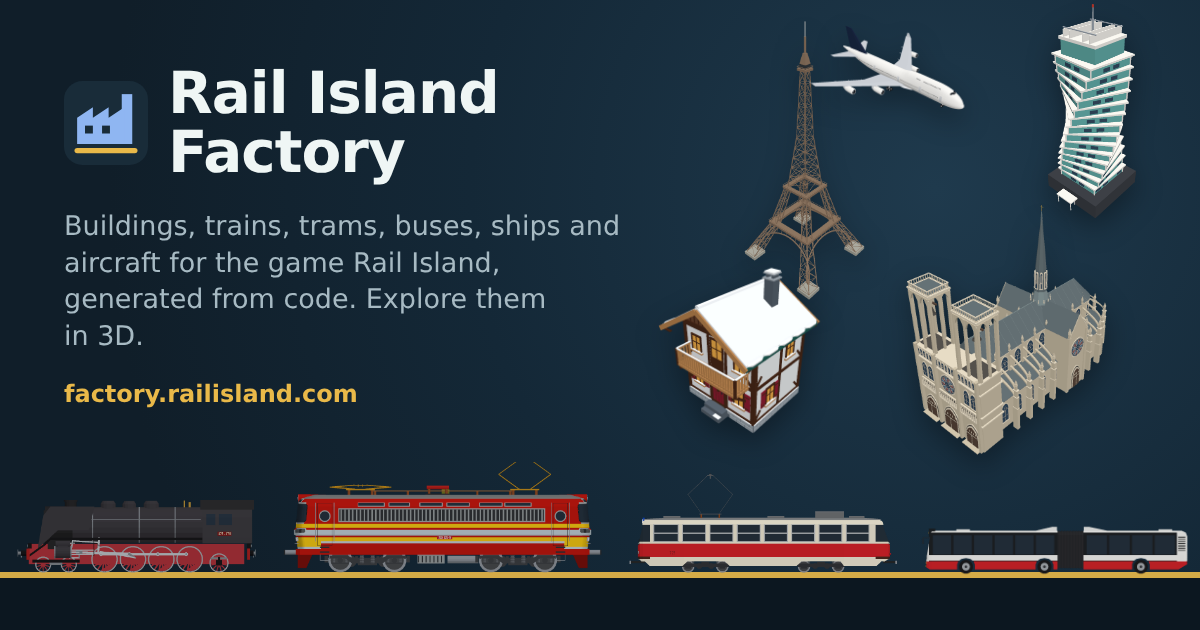
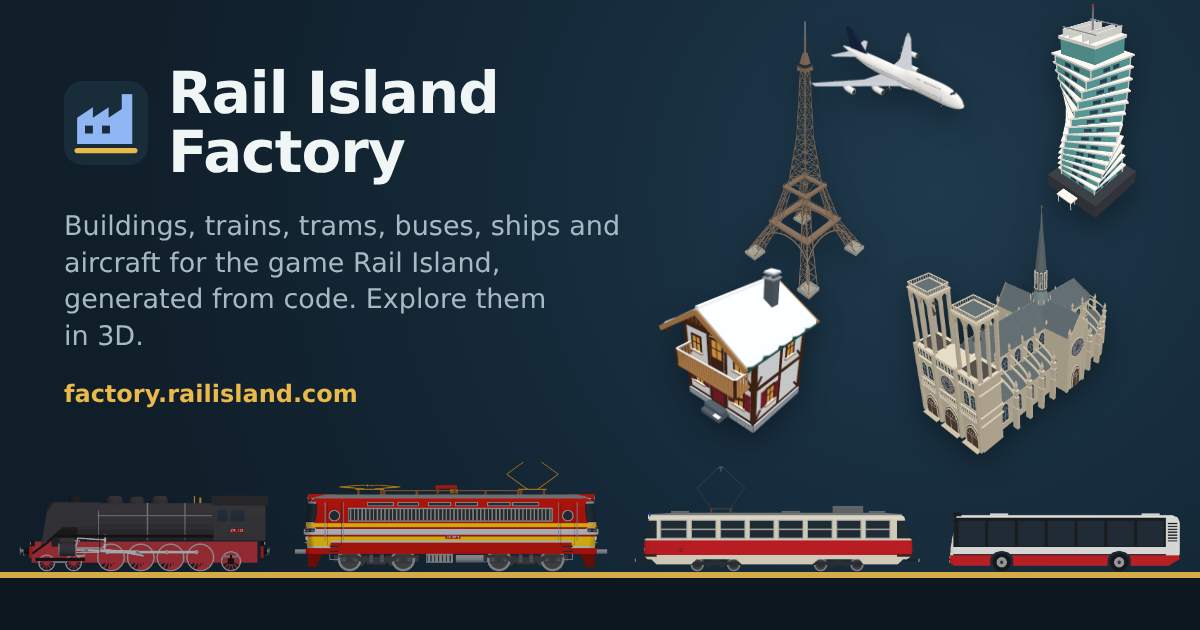
Social preview: city bus instead of the articulated one, vehicles at one scale on the rail
Claude-Session: https://claude.ai/code/session_014t4cghry4yJqARjeoMpxMv

Changed region(s): [[0.0, 0.754, 1.0, 0.9048]]

diff --git a/index.html b/index.html
@@ -20,7 +20,7 @@
     <meta property="og:image:type" content="image/png" />
     <meta property="og:image:width" content="1200" />
     <meta property="og:image:height" content="630" />
-    <meta property="og:image:alt" content="Rail Island Factory: the Eiffel Tower, Notre-Dame, an alpine hut, a twisted skyscraper and a Boeing 747 above a steam locomotive, a Czech electric locomotive, a Tatra tram and an articulated bus" />
+    <meta property="og:image:alt" content="Rail Island Factory: the Eiffel Tower, Notre-Dame, an alpine hut, a twisted skyscraper and a Boeing 747 above a steam locomotive, a Czech electric locomotive, a Tatra tram and a city bus" />
     <meta property="og:locale" content="en_US" />
     <meta name="twitter:card" content="summary_large_image" />
     <meta name="twitter:title" content="Rail Island Factory" />

diff --git a/docs/site/catalog-site.md b/docs/site/catalog-site.md
@@ -58,8 +58,10 @@ shows the same preview). The image is `src/social-preview.png`, 1200 x 630 px:
 the site's colours and favicon, the title and a one-line description, the Eiffel
 Tower, Notre-Dame, the alpine hut, the twisted skyscraper and the Boeing 747
 above a rail line with the CSD 475.1 steam locomotive, the CD 230, the Tatra T3 and
-the articulated Karosa/Renault bus. It was composed from those models' transparent
-`export/thumbs/` renders on an HTML page screenshotted headlessly; redo it when the
+the 12 m Karosa/Renault city bus. It was composed from those models' transparent
+`export/thumbs/` renders on an HTML page screenshotted headlessly; the vehicles'
+side views share one scale and a ground line (row 183 of 192), so they are all drawn
+at the same height and stand on the rail at their true relative lengths; redo it when the
 site's look changes, not for every new model (it names no model count).
 Crawlers need an absolute URL, which Vite does not rewrite, so the
 `social-preview` plugin in `vite.config.ts` emits the file at the site root as
